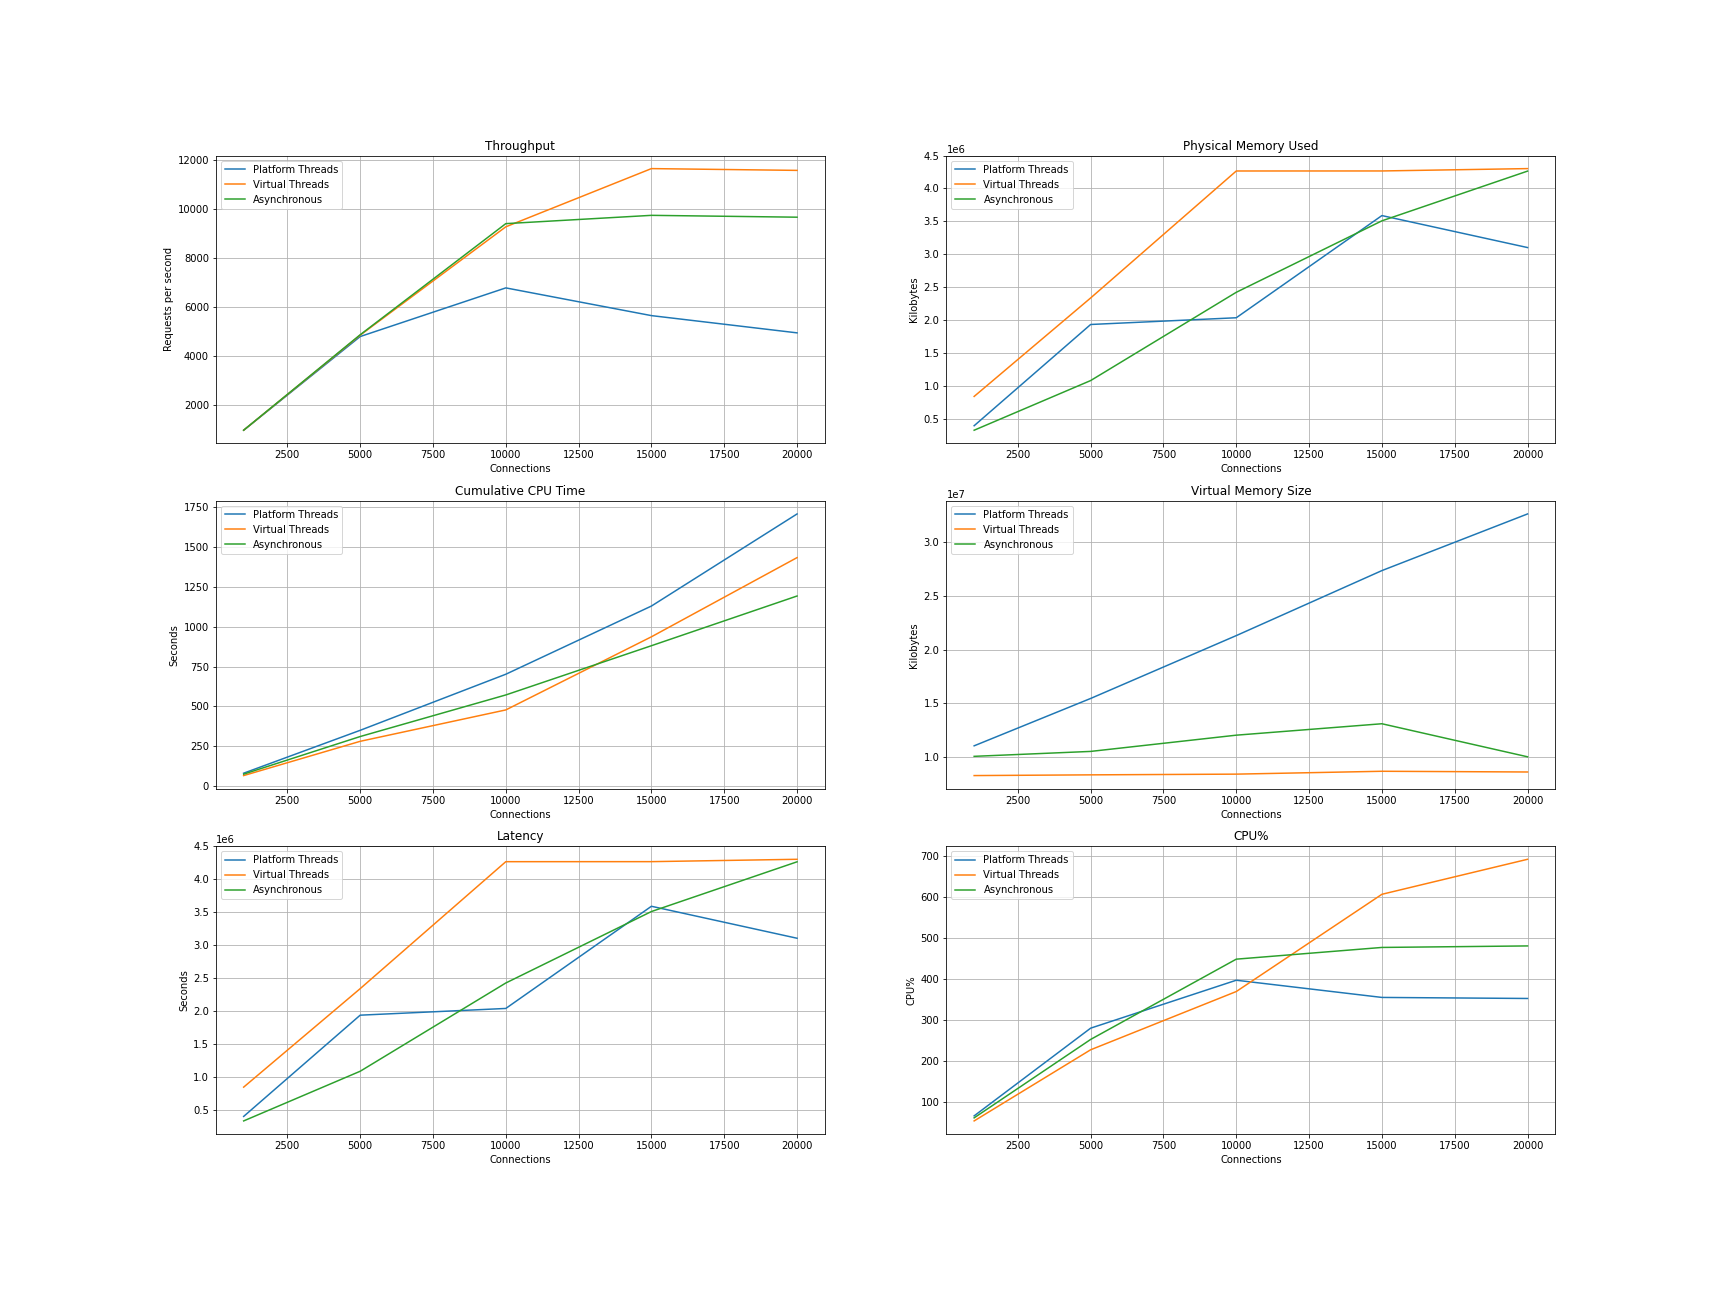
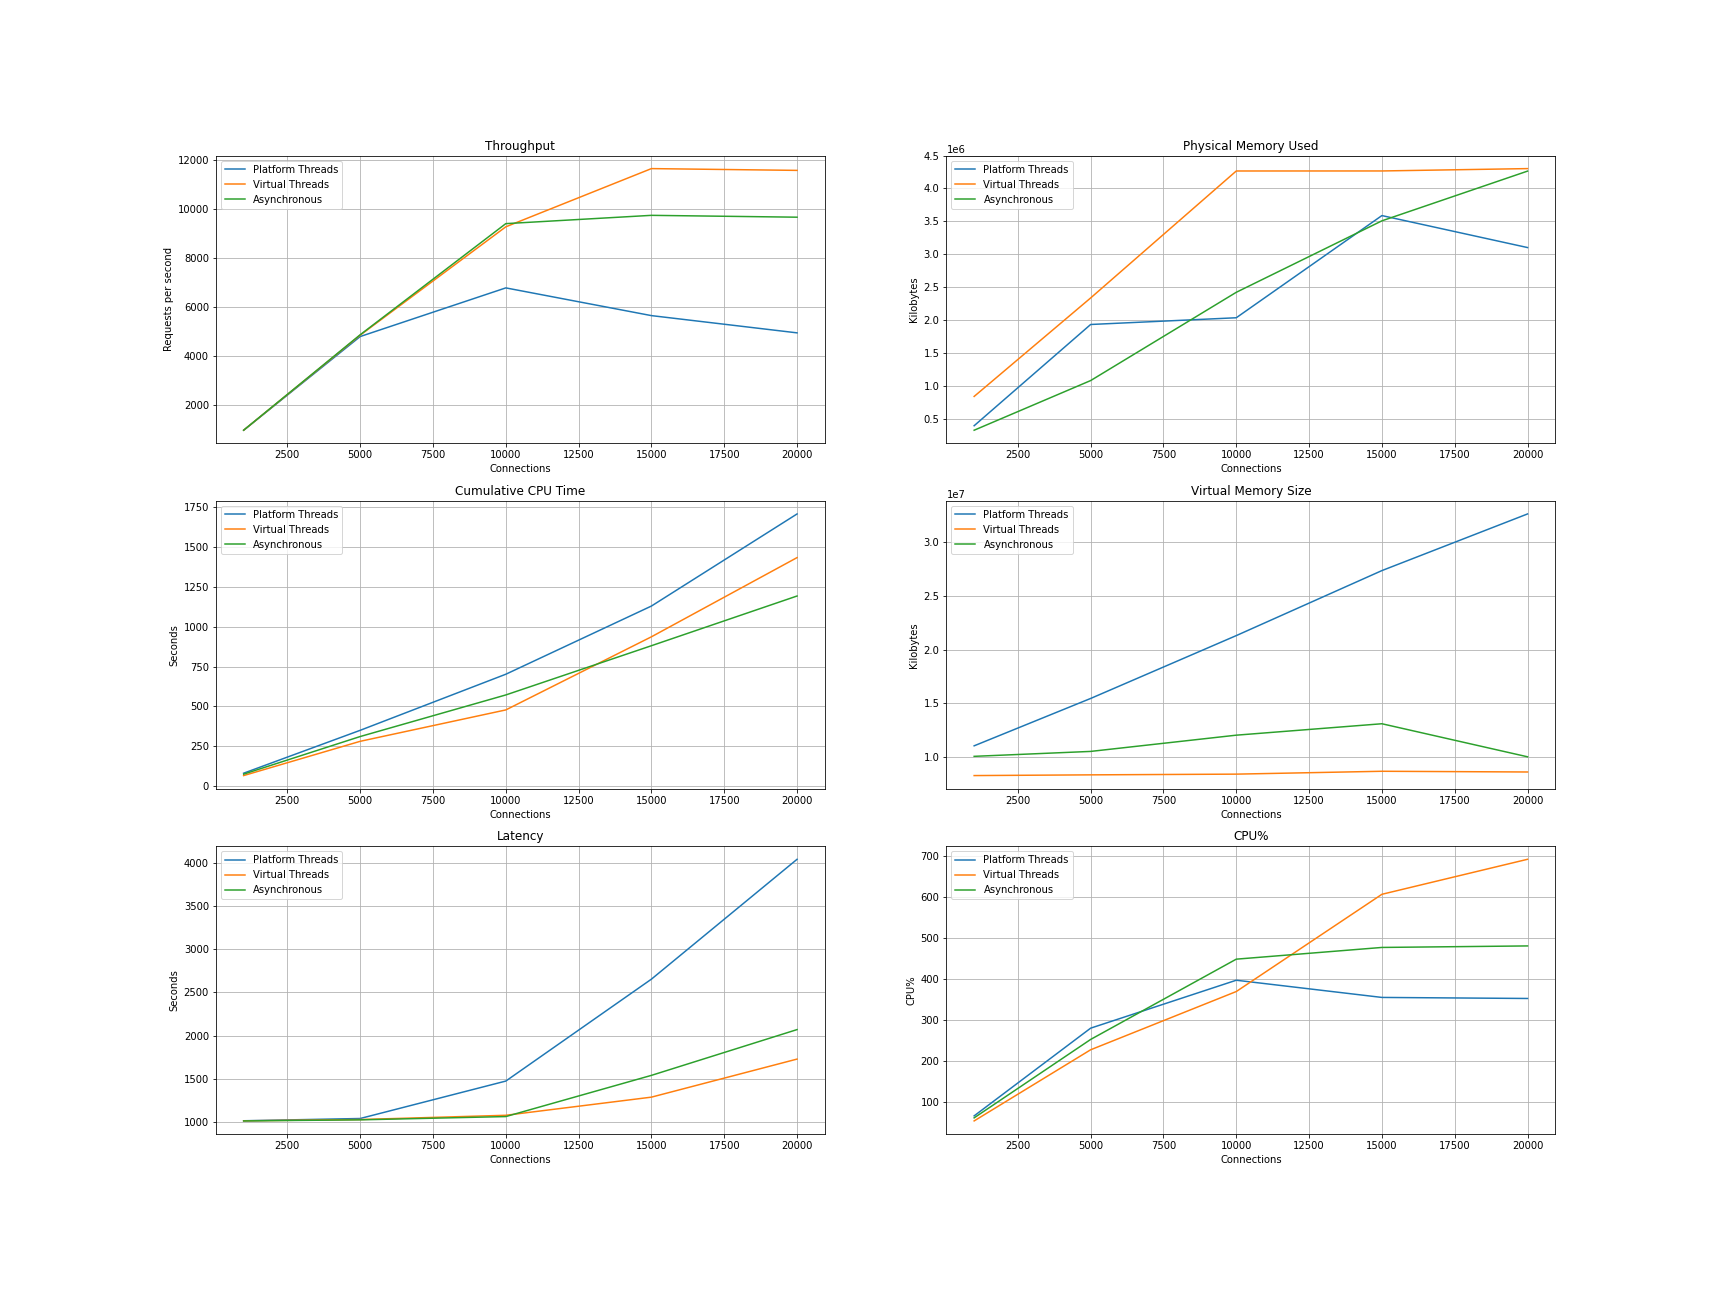
Fix latency plotting error.

diff --git a/README.md b/README.md
@@ -214,7 +214,7 @@ ax22.grid()
 ax22.legend()
 
 for d in [type_thread, type_virtual, type_async]:
-    ax13.plot(x, d['rss'], label=d['label'])
+    ax13.plot(x, d['latency'], label=d['label'])
 ax13.set_xlabel('Connections')
 ax13.set_ylabel('Seconds')
 ax13.set_title('Latency')
